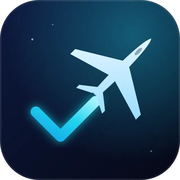
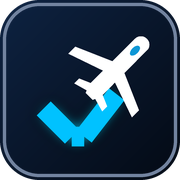
feat: add dual-chain EVM and Solana wallet balance checker and funding guides
- Enhance scripts/check-wallet.ts to verify Base Sepolia (ETH + Circle USDC) and Solana Devnet (SOL + Circle USDC)
- Add npm run check:wallets alias in package.json
- Include automated balance queries and direct faucet links

diff --git a/scripts/check-wallet.ts b/scripts/check-wallet.ts
@@ -3,43 +3,185 @@ loadEnvConfig(process.cwd());
 
 import { ethers } from "ethers";
 
-const rawKey = process.env.PRIVATE_KEY || process.env.AGENT_PRIVATE_KEY;
+async function checkEvm() {
+  console.log("===========================================================================");
+  console.log("  [1/2] EVM WALLET CHECK (BASE SEPOLIA · EIP-155:84532)");
+  console.log("===========================================================================");
 
-if (!rawKey) {
-  console.log("STATUS: NO_KEY_IN_ENV");
-  process.exit(0);
-}
+  const rawKey = process.env.AGENT_PRIVATE_KEY || process.env.PRIVATE_KEY;
+  if (!rawKey) {
+    console.log("  ⚠ No EVM private key found in .env (AGENT_PRIVATE_KEY or PRIVATE_KEY).");
+    console.log("    To configure:");
+    console.log("    1. Generate an EVM key or export from MetaMask / Coinbase Wallet.");
+    console.log("    2. Add to .env: AGENT_PRIVATE_KEY=0x...");
+    return;
+  }
 
-const cleanKey = rawKey.trim().replace(/['"]/g, "");
-const formattedKey = cleanKey.startsWith("0x") ? cleanKey : "0x" + cleanKey;
+  const cleanKey = rawKey.trim().replace(/['"]/g, "");
+  const formattedKey = cleanKey.startsWith("0x") ? cleanKey : "0x" + cleanKey;
 
-try {
-  const wallet = new ethers.Wallet(formattedKey);
-  console.log("STATUS: WALLET_VALID");
-  console.log("Public Address:           ", wallet.address);
+  try {
+    const wallet = new ethers.Wallet(formattedKey);
+    console.log("  ✓ Status:                 CONFIGURED & VALID");
+    console.log("  ✓ EVM Public Address:     " + wallet.address);
 
-  const provider = new ethers.JsonRpcProvider("https://sepolia.base.org");
-  const usdcAddress = "0x036CbD53842c5426634e7929541eC2318f3dCF7e";
-  const usdcContract = new ethers.Contract(
-    usdcAddress,
-    ["function balanceOf(address) view returns (uint256)"],
-    provider
-  );
+    const provider = new ethers.JsonRpcProvider("https://sepolia.base.org");
+    const usdcAddress = "0x036CbD53842c5426634e7929541eC2318f3dCF7e";
+    const usdcContract = new ethers.Contract(
+      usdcAddress,
+      ["function balanceOf(address) view returns (uint256)"],
+      provider
+    );
 
-  async function check() {
     try {
       const [ethBal, usdcBal] = await Promise.all([
         provider.getBalance(wallet.address),
         usdcContract.balanceOf(wallet.address),
       ]);
-      console.log("Base Sepolia ETH Balance: ", ethers.formatEther(ethBal), "ETH");
-      console.log("Base Sepolia USDC Balance:", (Number(usdcBal) / 1e6).toFixed(2), "USDC");
-    } catch (e: any) {
-      console.log("RPC query note:           ", e.message);
+      const ethFormatted = ethers.formatEther(ethBal);
+      const usdcFormatted = (Number(usdcBal) / 1e6).toFixed(2);
+
+      console.log(`  ✓ Base Sepolia ETH:       ${ethFormatted} ETH`);
+      console.log(`  ✓ Base Sepolia USDC:      ${usdcFormatted} USDC (Contract: ${usdcAddress})`);
+
+      if (Number(usdcBal) === 0) {
+        console.log("\n  ℹ HOW TO FUND BASE SEPOLIA USDC:");
+        console.log(`    1. Open Circle Testnet Faucet: https://faucet.circle.com/`);
+        console.log(`    2. Select 'Base Sepolia' in the Network dropdown.`);
+        console.log(`    3. Paste your EVM address: ${wallet.address}`);
+        console.log(`    4. Click 'Send 10 USDC'.`);
+      }
+      if (Number(ethBal) === 0) {
+        console.log("\n  ℹ HOW TO FUND BASE SEPOLIA ETH (GAS):");
+        console.log(`    1. Superchain Faucet: https://console.optimism.io/faucet`);
+        console.log(`    2. QuickNode Faucet: https://faucet.quicknode.com/base/sepolia`);
+        console.log(`    3. Paste your address: ${wallet.address}`);
+        console.log(`    Note: Telegraph x402 on Base is gasless (facilitator pays gas), but ~0.005 ETH is good practice.`);
+      }
+    } catch (rpcErr: any) {
+      console.log("  ⚠ Base Sepolia RPC notice: " + rpcErr.message);
     }
+  } catch (err: any) {
+    console.log("  ✕ Invalid EVM key format: " + err.message);
+  }
+}
+
+async function checkSolana() {
+  console.log("\n===========================================================================");
+  console.log("  [2/2] SOLANA WALLET CHECK (SOLANA DEVNET · CAIP-2: solana:EtWTRABZaYq...)");
+  console.log("===========================================================================");
+
+  const solKey = process.env.SOLANA_PRIVATE_KEY?.trim();
+  if (!solKey) {
+    console.log("  ⚠ No Solana private key found in .env (SOLANA_PRIVATE_KEY).");
+    console.log("    To configure:");
+    console.log("    1. Generate a Solana keypair or export base58 private key from Phantom/Solflare.");
+    console.log("    2. Add to .env: SOLANA_PRIVATE_KEY=<base58_key_or_byte_array>");
+    console.log("\n    Quick keypair generator:");
+    console.log("    npx tsx -e \"import { createKeyPairSignerFromBytes } from '@solana/kit'; import { base58 } from '@scure/base'; (async () => { const key = crypto.getRandomValues(new Uint8Array(32)); console.log('SOLANA_PRIVATE_KEY=' + base58.encode(key)); })()\"");
+    return;
   }
 
-  check();
-} catch (e: any) {
-  console.log("STATUS: INVALID_KEY_FORMAT -", e.message);
+  try {
+    const { base58 } = await import("@scure/base");
+    const { createKeyPairSignerFromBytes } = await import("@solana/kit");
+
+    let bytes: Uint8Array;
+    if (solKey.startsWith("[")) {
+      bytes = new Uint8Array(JSON.parse(solKey));
+    } else {
+      bytes = base58.decode(solKey);
+    }
+
+    const signer = await createKeyPairSignerFromBytes(bytes);
+    const solanaAddress = signer.address;
+    console.log("  ✓ Status:                 CONFIGURED & VALID");
+    console.log("  ✓ Solana Public Address:  " + solanaAddress);
+
+    // Query Devnet RPC for SOL balance
+    const rpcUrl = "https://api.devnet.solana.com";
+    try {
+      const solRes = await fetch(rpcUrl, {
+        method: "POST",
+        headers: { "Content-Type": "application/json" },
+        body: JSON.stringify({
+          jsonrpc: "2.0",
+          id: 1,
+          method: "getBalance",
+          params: [solanaAddress],
+        }),
+        signal: AbortSignal.timeout(8000),
+      });
+
+      if (solRes.ok) {
+        const solData = await solRes.json();
+        const lamports = solData.result?.value ?? 0;
+        const solBal = (lamports / 1e9).toFixed(4);
+        console.log(`  ✓ Solana Devnet SOL:      ${solBal} SOL`);
+
+        if (lamports === 0) {
+          console.log("\n  ℹ HOW TO FUND SOLANA DEVNET SOL (AIRDROP):");
+          console.log(`    • Web Faucet:          https://faucet.solana.com/`);
+          console.log(`    • QuickNode Faucet:    https://faucet.quicknode.com/solana/devnet`);
+          console.log(`    • CLI Command:         solana airdrop 1 ${solanaAddress} --url devnet`);
+          console.log(`    • Paste address:       ${solanaAddress}`);
+        }
+      }
+    } catch (e: any) {
+      console.log("  ⚠ Solana SOL balance query note: " + e.message);
+    }
+
+    // Query Devnet RPC for Circle USDC balance (SPL token 4zMMC9srt5Ri5X14GAgXhaHii3GnPAEERYPJgZJDncDU)
+    const usdcMint = "4zMMC9srt5Ri5X14GAgXhaHii3GnPAEERYPJgZJDncDU";
+    try {
+      const tokenRes = await fetch(rpcUrl, {
+        method: "POST",
+        headers: { "Content-Type": "application/json" },
+        body: JSON.stringify({
+          jsonrpc: "2.0",
+          id: 2,
+          method: "getTokenAccountsByOwner",
+          params: [
+            solanaAddress,
+            { mint: usdcMint },
+            { encoding: "jsonParsed" },
+          ],
+        }),
+        signal: AbortSignal.timeout(8000),
+      });
+
+      if (tokenRes.ok) {
+        const tokenData = await tokenRes.json();
+        const accounts = tokenData.result?.value || [];
+        let totalUsdc = 0;
+        for (const acc of accounts) {
+          totalUsdc += Number(acc.account?.data?.parsed?.info?.tokenAmount?.uiAmountString || "0");
+        }
+        console.log(`  ✓ Solana Devnet USDC:     ${totalUsdc.toFixed(2)} USDC (Mint: ${usdcMint})`);
+
+        if (totalUsdc === 0) {
+          console.log("\n  ℹ HOW TO FUND SOLANA DEVNET USDC:");
+          console.log(`    1. Open Circle Testnet Faucet: https://faucet.circle.com/`);
+          console.log(`    2. Select 'Solana Devnet' in the Network dropdown.`);
+          console.log(`    3. Paste your Solana address: ${solanaAddress}`);
+          console.log(`    4. Click 'Send 10 USDC'.`);
+          console.log(`    Note: The Telegraph node sponsors caller fee-payer for x402, so you only need Devnet USDC!`);
+        }
+      }
+    } catch (e: any) {
+      console.log("  ⚠ Solana USDC balance query note: " + e.message);
+    }
+  } catch (err: any) {
+    console.log("  ✕ Invalid Solana key format: " + err.message);
+  }
 }
+
+async function main() {
+  await checkEvm();
+  await checkSolana();
+  console.log("\n===========================================================================");
+  console.log("  All wallet checks completed.");
+  console.log("===========================================================================\n");
+}
+
+main().catch(console.error);

diff --git a/components/PaperPlaneLogo.tsx b/components/PaperPlaneLogo.tsx
@@ -35,32 +35,35 @@ export function PaperPlaneLogo({ size = 32, className = "" }: PaperPlaneLogoProp
         <rect width="64" height="64" rx="14" fill="url(#sc-bg)" />
         <rect width="62" height="62" x="1" y="1" rx="13" fill="none" stroke="#1E3A66" strokeWidth="1.2" opacity="0.6" />
 
-        {/* Glowing cyan checkmark trail */}
-        <path
-          d="M 12 38 L 22 48 C 23.2 49.2 25.2 49.2 26.4 48 L 38 33"
-          fill="none"
-          stroke="url(#sc-check)"
-          strokeWidth="7"
-          strokeLinecap="round"
-          strokeLinejoin="round"
-          filter="url(#sc-glow)"
-        />
+        {/* Centered & Optically Balanced Motif (Equalized ~12px margins all around) */}
+        <g transform="translate(3.5, 0.5)">
+          {/* Glowing cyan checkmark trail */}
+          <path
+            d="M 12 38 L 22 48 C 23.2 49.2 25.2 49.2 26.4 48 L 38 33"
+            fill="none"
+            stroke="url(#sc-check)"
+            strokeWidth="7"
+            strokeLinecap="round"
+            strokeLinejoin="round"
+            filter="url(#sc-glow)"
+          />
 
-        {/* White Airplane banking up-right */}
-        <g transform="translate(36, 26) rotate(45)">
-          <path
-            d="M 0 -18 C 1.8 -18 3 -12 3 -4 L 3 8 C 3 10 1.8 11 0 11 C -1.8 11 -3 10 -3 8 L -3 -4 C -3 -12 -1.8 -18 0 -18 Z"
-            fill="#FFFFFF"
-          />
-          <path
-            d="M -16 2 L 0 -5 L 16 2 L 16 5 L 0 0 L -16 5 Z"
-            fill="#FFFFFF"
-          />
-          <path
-            d="M -7 9 L 0 6 L 7 9 L 7 11 L 0 9 L -7 11 Z"
-            fill="#FFFFFF"
-          />
-          <ellipse cx="0" cy="-12" rx="1" ry="2" fill="#0EA5E9" opacity="0.85" />
+          {/* White Airplane banking up-right */}
+          <g transform="translate(36, 26) rotate(45)">
+            <path
+              d="M 0 -18 C 1.8 -18 3 -12 3 -4 L 3 8 C 3 10 1.8 11 0 11 C -1.8 11 -3 10 -3 8 L -3 -4 C -3 -12 -1.8 -18 0 -18 Z"
+              fill="#FFFFFF"
+            />
+            <path
+              d="M -16 2 L 0 -5 L 16 2 L 16 5 L 0 0 L -16 5 Z"
+              fill="#FFFFFF"
+            />
+            <path
+              d="M -7 9 L 0 6 L 7 9 L 7 11 L 0 9 L -7 11 Z"
+              fill="#FFFFFF"
+            />
+            <ellipse cx="0" cy="-12" rx="1" ry="2" fill="#0EA5E9" opacity="0.85" />
+          </g>
         </g>
       </svg>
     </div>
